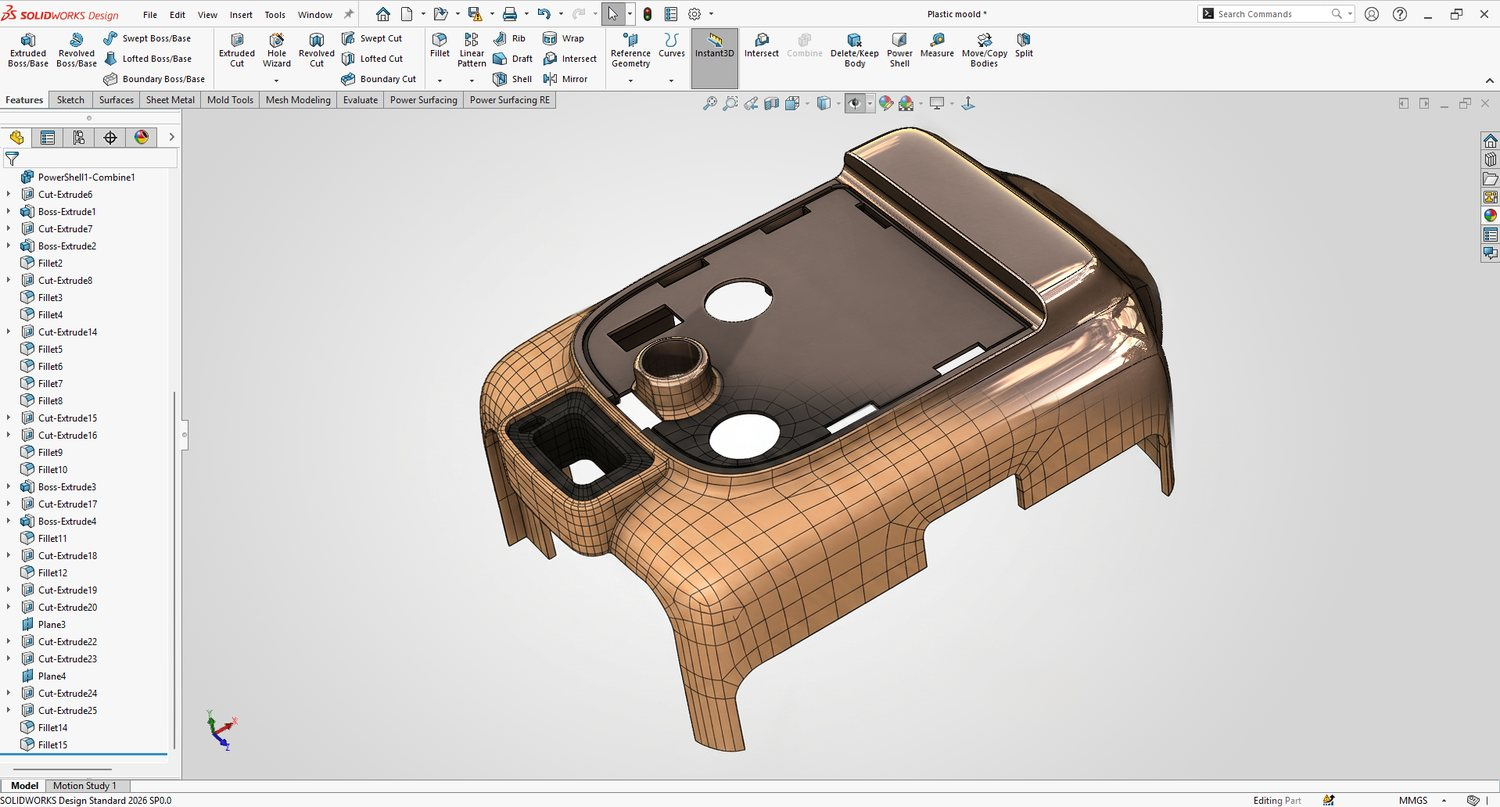
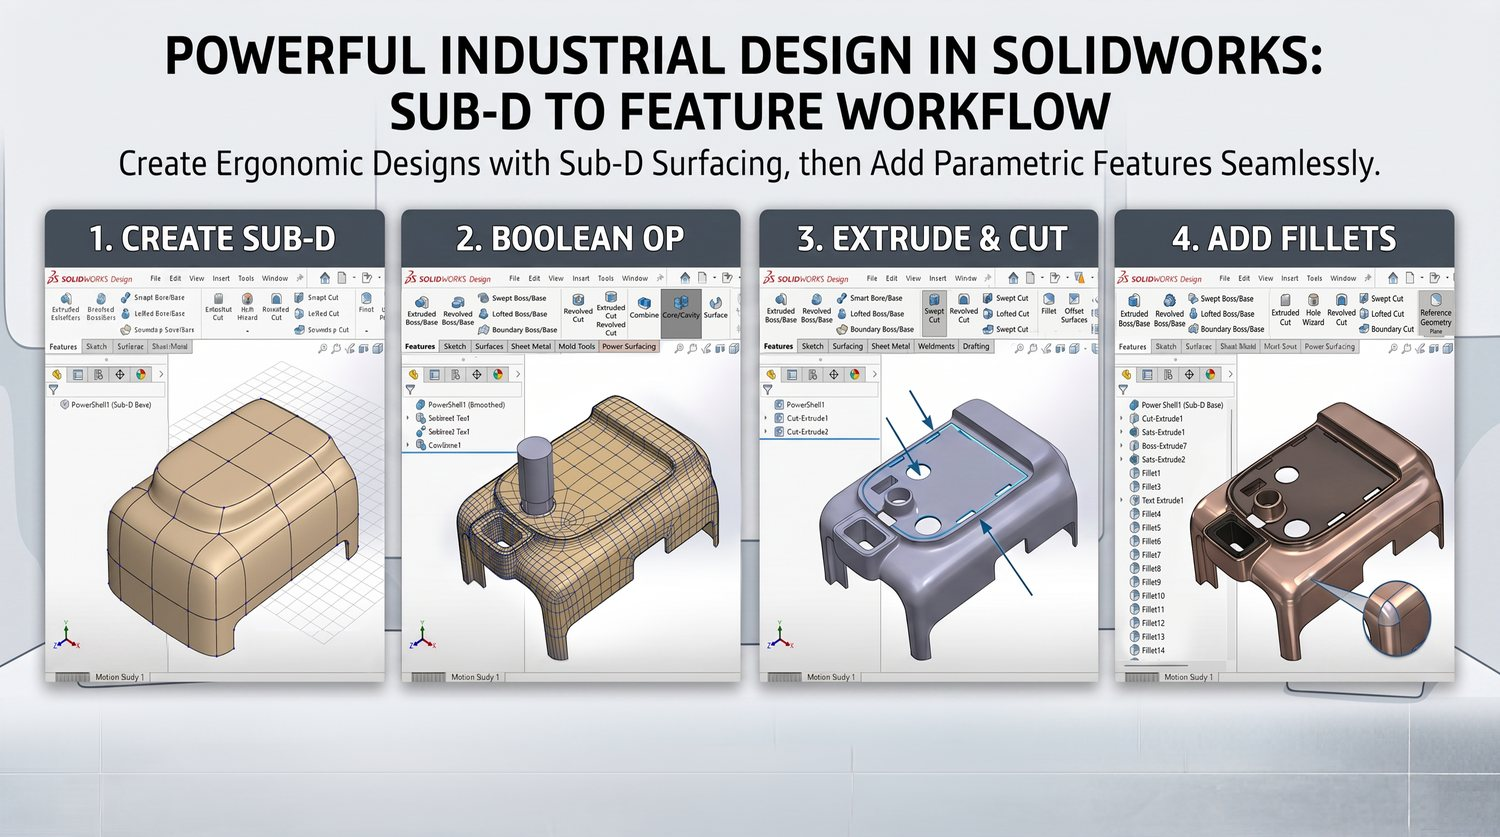
External Changes from Hesham

diff --git a/src/lib/siteData.js b/src/lib/siteData.js
@@ -22,7 +22,7 @@ export const PRODUCTS = [
     pageDescription: "Convert 3D scan meshes, sculpted meshes, stl meshes and CAD meshes into editable CAD surfaces and solids using reverse engineering, dimension-driven sketching, feature modeling and Sub-D tools.",
     shortName: "RE Studio",
     tagline: "Standalone reverse-engineering software for scanned and sculpted meshes",
-    description: "The most advanced standalone reverse-engineering software for scanned meshes, ZBrush sculpts, and polygonal geometry. Power Surfacing RE Studio captures very fine surface detail with a highly automated workflow, converting complex meshes into high-quality NURBS surfaces in a matter of minutes.",
+    description: "The most advanced standalone reverse-engineering software for scanned meshes, ZBrush sculpts, and polygonal geometry. Power Surfacing RE Studio captures very fine surface detail with a highly automated workflow, converting complex meshes into high-quality NURBS surfaces in a matter of minutes. It includes the complete Power Surfacing Studio toolset, adding reverse-engineering capabilities on top of full hybrid Sub-D / parametric NURBS modeling.",
     image: IMAGES.reStudio,
     path: "/products/power-surfacing-re-studio",
     testimonialsPath: "/customers/power-surfacing-re-studio",
@@ -44,11 +44,14 @@ export const PRODUCTS = [
       { quote: "The STEP export drops straight into our downstream CAD with no cleanup. It just works.", name: "James T.", title: "Mechanical Engineer, Medical Devices" },
     ],
     features: [
+      "Includes everything in Power Surfacing Studio — full Sub-D and parametric NURBS modeling",
       "Import of STL and Wavefront OBJ files",
       "Automatic Quad Wrap retopology that follows curvature flow",
+      "Automatic identification and parameterization of analytic shapes (planes, cylinders, spheres, cones)",
       "Shrink Wrap tool adds fine detail without adding polygons",
       "Mesh repair, smoothing, and hole-filling tools",
       "Sub-D to Brep NURBS conversion with G2 edge continuity",
+      "Advanced shelling and variable wall thickness",
       "Export to STEP, IGES, and SAT formats",
       "SOLIDWORKS Topology Study mesh conversion",
       "Point cloud (OBJ) import and processing",
@@ -64,6 +67,8 @@ export const PRODUCTS = [
     whoIsItFor: [
       "Reverse engineers and 3D scan technicians",
       "Industrial and product designers working with organic shapes",
+      "Medical, dental, and prosthetics professionals working from scans",
+      "Artists digitizing sculptures and fine art pieces",
       "Toy, character, and game controller designers",
       "Jewelry, cutlery, and consumer goods designers",
       "Engineers digitizing clay models and physical prototypes",
@@ -81,7 +86,7 @@ export const PRODUCTS = [
     name: "Power Surfacing Studio",
     shortName: "Studio",
     tagline: "Standalone freeform Sub-D and Class A surfacing design software",
-    description: "Model complex, aesthetically pleasing Class A surfaces with the ease of digital clay. Power Surfacing Studio unifies Sub-D subdivision modeling with NURBS precision, so you can push, pull, and sculpt freeform shapes, then refine them with dimension-driven, feature-based control — no third-party CAD license required.",
+    description: "Model complex, aesthetically pleasing Class A surfaces with the ease of digital clay. Power Surfacing Studio delivers hybrid Sub-D / parametric NURBS modeling — push, pull, and sculpt freeform shapes, then refine them with dimension-driven, feature-based control — no third-party CAD license required.",
     image: IMAGES.studio,
     path: "/products/power-surfacing-studio",
     testimonialsPath: "/customers/power-surfacing-studio",
@@ -138,7 +143,7 @@ export const PRODUCTS = [
   {
     id: "power-surfacing-solidworks",
     name: "Power Surfacing for SOLIDWORKS",
-    shortName: "for SOLIDWORKS",
+    shortName: "Power Surfacing",
     tagline: "Freeform Sub-D and Class A surfacing inside SOLIDWORKS",
     description: "Power Surfacing is the industrial design add-in that brings freeform Sub-D surfacing to SOLIDWORKS. Manipulating Power Surfacing parts is as simple as modeling with clay — create complex, aesthetically pleasing Class A surfaces, then convert them directly into SOLIDWORKS solid or surface bodies integrated with your feature tree.",
     image: IMAGES.solidworks,
@@ -194,7 +199,7 @@ export const PRODUCTS = [
   {
     id: "power-surfacing-re-solidworks",
     name: "Power Surfacing RE for SOLIDWORKS",
-    shortName: "RE for SOLIDWORKS",
+    shortName: "Power Surfacing RE",
     tagline: "Reverse engineer scanned and polygonal meshes inside SOLIDWORKS",
     description: "Power Surfacing RE gives SOLIDWORKS users a unique set of tools to rebuild shapes from many meshes — 3D scans, FEA meshes, sculpted meshes, 3D printer files, and online model databases — directly inside SOLIDWORKS, without leaving your native CAD environment.",
     image: IMAGES.reSolidworks,
@@ -316,7 +321,7 @@ export const WORKFLOWS = [
   { id: "surfacing-solid-modeling", name: "Surfacing and Solid Modeling", path: "/workflows/surfacing-solid-modeling", image: IMAGES.solidworks, description: "Combine precision surface modeling with solid modeling for complete product design and manufacturing.", startingData: "Sketches or surface concepts", result: "A complete solid and surface product model", recommendedProduct: "Power Surfacing Studio" },
   { id: "freeform-sub-d", name: "Freeform Sub-D Design", path: "/workflows/freeform-sub-d", image: "/assets/wf-freeform.jpg", description: "Use subdivision surface modeling to create smooth, organic freeform shapes with intuitive control.", startingData: "A freeform or organic design idea", result: "Smooth Class A Sub-D surfaces as NURBS", recommendedProduct: "Power Surfacing Studio" },
   { id: "industrial-design-solidworks", name: "Industrial Design in SOLIDWORKS", path: "/workflows/industrial-design-solidworks", image: "/assets/wf-industrial.jpg", description: "Create beautiful, ergonomic industrial designs directly inside SOLIDWORKS using Sub-D surfacing.", startingData: "A SOLIDWORKS part or assembly", result: "Organic Class A surfaces in your feature tree", recommendedProduct: "Power Surfacing for SOLIDWORKS" },
-  { id: "shelling-thickening", name: "Shelling and Thickening", path: "/workflows/shelling-thickening", image: "/assets/wf-shelling.jpg", description: "Shell and thicken complex geometry that standard CAD tools cannot handle.", startingData: "A complex solid or surface body", result: "A shelled or thickened part with clean walls", recommendedProduct: "Power Shell for SOLIDWORKS" },
+  { id: "shelling-thickening", name: "Shelling and Thickening", path: "/workflows/shelling-thickening", image: "/assets/wf-shelling.jpg", description: "Shell and thicken complex geometry that standard CAD tools cannot handle.", startingData: "A complex solid or surface body", result: "A shelled or thickened part with clean walls", recommendedProduct: "Power Shell for SOLIDWORKS (also included in Power Surfacing Studio and Power Surfacing RE Studio)" },
 ];
 
 export const CAPABILITIES = [

diff --git a/src/pages/support/Installation.jsx b/src/pages/support/Installation.jsx
@@ -13,20 +13,22 @@ const sections = [
       "4 GB RAM minimum (8 GB recommended)",
       "OpenGL 3.3 compatible graphics card",
       "500 MB available disk space",
-      "Internet connection for license activation",
-      "SOLIDWORKS 2020 or later (for add-in products)",
+      "Internet connection for license activation (offline / manual activation is available for machines without network access, such as military and government organizations)",
+      "SOLIDWORKS 2020 or later for the current add-in products — older SOLIDWORKS versions (2019 and earlier) are supported with matching older product versions; contact sales for availability",
     ],
   },
   {
     icon: Key,
     title: "License Activation",
     items: [
+      "Run the installer first — we strongly recommend right-clicking it and choosing 'Run as Administrator'",
       "Launch the product after installation",
       "Enter your license key when prompted",
       "Click 'Activate' to validate your license",
-      "For trial users, select 'Start Trial' instead",
-      "License is tied to a single machine",
-      "Contact support to transfer a license",
+      "For trial users of SOLIDWORKS products, select 'Continue Evaluation'",
+      "No internet access? Manual (offline) activation is available — contact support",
+      "A license is activated on one machine at a time, and can easily be moved: deactivate it on the old machine, then activate it on the new one",
+      "For SOLIDWORKS products you can transfer a license yourself — simply deactivate on the current machine and activate on the new machine",
     ],
   },
   {
@@ -45,7 +47,9 @@ const sections = [
     title: "Common Issues",
     items: [
       "Add-in not appearing in SOLIDWORKS — restart SOLIDWORKS and check Add-in Manager",
-      "License activation failure — check internet connection and firewall settings",
+      "For SOLIDWORKS products, make sure BOTH checkboxes are checked in the Add-in Manager — the add-in will not load automatically unless the 'Start Up' (autoload) checkbox is also checked",
+      "Verify that the version you downloaded matches your version of SOLIDWORKS, and that your license is valid for that version",
+      "License activation failure — check internet connection and firewall settings (or use manual activation)",
       "Graphics display issues — update your graphics card drivers",
       "Slow performance — check RAM and close other applications",
       "For persistent issues, contact support with your system info",

diff --git a/src/components/shared/ComparisonTable.jsx b/src/components/shared/ComparisonTable.jsx
@@ -7,16 +7,16 @@ const features = [
   { name: "Dimension-Driven Sketching", products: ["power-surfacing-re-studio", "power-surfacing-studio"] },
   { name: "Feature-Based Modeling", products: ["power-surfacing-re-studio", "power-surfacing-studio"] },
   { name: "Surfacing & Solid Modeling", products: ["power-surfacing-re-studio", "power-surfacing-studio", "power-surfacing-solidworks", "power-surfacing-re-solidworks"] },
-  { name: "Freeform Sub-D Design", products: ["power-surfacing-re-studio", "power-surfacing-studio", "power-surfacing-solidworks"] },
+  { name: "Freeform Sub-D Design", products: ["power-surfacing-re-studio", "power-surfacing-studio", "power-surfacing-solidworks", "power-surfacing-re-solidworks"] },
   { name: "NURBS Output", products: ["power-surfacing-re-studio", "power-surfacing-studio", "power-surfacing-solidworks", "power-surfacing-re-solidworks"] },
   { name: "Scan-to-CAD", products: ["power-surfacing-re-studio", "power-surfacing-re-solidworks"] },
   { name: "Mesh-to-CAD", products: ["power-surfacing-re-studio", "power-surfacing-re-solidworks"] },
   { name: "STL/OBJ Import", products: ["power-surfacing-re-studio", "power-surfacing-re-solidworks"] },
   { name: "Point Cloud Processing", products: ["power-surfacing-re-studio"] },
   { name: "Mesh Cleanup & Repair", products: ["power-surfacing-re-studio", "power-surfacing-re-solidworks"] },
-  { name: "Class A Surfacing", products: ["power-surfacing-solidworks"] },
-  { name: "Advanced Shelling", products: ["power-shell-solidworks"] },
-  { name: "Variable Wall Thickness", products: ["power-shell-solidworks"] },
+  { name: "Class A Surfacing", products: ["power-surfacing-re-studio", "power-surfacing-studio", "power-surfacing-solidworks", "power-surfacing-re-solidworks"] },
+  { name: "Advanced Shelling", products: ["power-surfacing-re-studio", "power-surfacing-studio", "power-surfacing-solidworks", "power-surfacing-re-solidworks", "power-shell-solidworks"] },
+  { name: "Variable Wall Thickness", products: ["power-surfacing-re-studio", "power-surfacing-studio", "power-surfacing-solidworks", "power-surfacing-re-solidworks", "power-shell-solidworks"] },
   { name: "SOLIDWORKS Integration", products: ["power-surfacing-solidworks", "power-surfacing-re-solidworks", "power-shell-solidworks"] },
   { name: "Standalone Application", products: ["power-surfacing-re-studio", "power-surfacing-studio"] },
 ];

diff --git a/src/pages/support/SystemRequirements.jsx b/src/pages/support/SystemRequirements.jsx
@@ -10,7 +10,7 @@ const SECTIONS = [
     subtitle: "Power Surfacing, Power Surfacing RE, and Power Shell for SOLIDWORKS",
     icon: Layers,
     requirements: [
-      { label: "SOLIDWORKS Version", value: "SOLIDWORKS 2021 or newer (64-bit). The add-ins follow SOLIDWORKS system requirements." },
+      { label: "SOLIDWORKS Version", value: "SOLIDWORKS 2021 or newer (64-bit) for current releases. Older SOLIDWORKS versions (2020 and earlier — even SOLIDWORKS 2017) are supported with matching older product versions; contact sales for availability. The add-ins follow SOLIDWORKS system requirements." },
       { label: "Operating System", value: "Windows 10 or Windows 11, 64-bit" },
       { label: "Processor", value: "3.3 GHz or higher, multi-core Intel or AMD (as recommended by SOLIDWORKS)" },
       { label: "Memory (RAM)", value: "16 GB minimum; 32 GB recommended for large scan meshes" },

diff --git a/src/components/layout/Footer.jsx b/src/components/layout/Footer.jsx
@@ -6,10 +6,10 @@ const footerLinks = [
 {
   title: "Products",
   links: [
-  { label: "RE Studio", path: "/products/power-surfacing-re-studio" },
-  { label: "Studio", path: "/products/power-surfacing-studio" },
-  { label: "For SOLIDWORKS", path: "/products/power-surfacing-solidworks" },
-  { label: "RE for SOLIDWORKS", path: "/products/power-surfacing-re-solidworks" },
+  { label: "Power Surfacing RE Studio", path: "/products/power-surfacing-re-studio" },
+  { label: "Power Surfacing Studio", path: "/products/power-surfacing-studio" },
+  { label: "Power Surfacing", path: "/products/power-surfacing-solidworks" },
+  { label: "Power Surfacing RE", path: "/products/power-surfacing-re-solidworks" },
   { label: "Power Shell", path: "/products/power-shell-solidworks" },
   { label: "Compare Products", path: "/products/comparison" }]
 

diff --git a/src/pages/Contact.jsx b/src/pages/Contact.jsx
@@ -82,9 +82,6 @@ export default function Contact() {
                   <a href="tel:+18585928866" className="flex items-center gap-3 text-slate-600 hover:text-red-600 transition-colors">
                     <Phone className="w-5 h-5 text-red-500" /> +1 858 592 8866
                   </a>
-                  <div className="flex items-center gap-3 text-slate-600">
-                    <Phone className="w-5 h-5 text-red-500" /> FAX: +1 858 592 8844
-                  </div>
                   <a href="mailto:sales@npowersoftware.com" className="flex items-center gap-3 text-slate-600 hover:text-red-600 transition-colors">
                     <Mail className="w-5 h-5 text-red-500" /> Sales: sales@npowersoftware.com
                   </a>

diff --git a/src/pages/Home.jsx b/src/pages/Home.jsx
@@ -221,10 +221,14 @@ function HeroSection() {
       </div>
 
       {/* scroll hint */}
-      <div className="absolute bottom-6 left-1/2 -translate-x-1/2 flex flex-col items-center gap-1 text-slate-500">
+      <button
+        type="button"
+        onClick={() => window.scrollTo({ top: window.innerHeight * 0.92, behavior: "smooth" })}
+        aria-label="Scroll down"
+        className="absolute bottom-6 left-1/2 -translate-x-1/2 flex flex-col items-center gap-1 text-slate-500 hover:text-slate-300 transition-colors cursor-pointer">
         <span className="text-[11px] uppercase tracking-[0.2em]">Scroll</span>
         <ChevronDown className="w-5 h-5 scroll-hint text-red-500" />
-      </div>
+      </button>
     </section>);
 
 }
